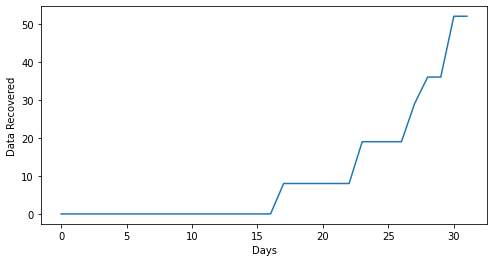
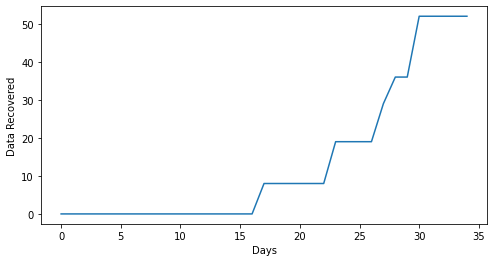
Change Time Strength

diff --git a/README.md b/README.md
@@ -1,6 +1,3 @@
-# SIR-model-Bayes-Opt
-SIR model for COVID-19 using Bayesian Optimization
-
 ```python
 !pip install bayesian-optimization
 !git clone https://github.com/CSSEGISandData/COVID-19.git
@@ -57,17 +54,26 @@ def SIR(t, sir, N, b, g):
 
 
 ```python
+D_T = True_rec.shape[0]
+d_t = np.linspace(0,D_T,D_T)
+std = np.std(True_rec)
+mn = np.mean(True_rec)
+n_data = (True_rec-mn)/std
+# 'a' could be hyperparameter, 'a'>0, if 'a' == 0 then we have equal strength for all time series
+a=1.5
+Time_strength = np.linspace(0,1,D_T)
+Time_strength = 1-np.power((1-np.power(Time_strength,a)),1/a)
+```
+
+
+```python
 %matplotlib inline
 from ipywidgets import interactive
-Pop = 3.756*10**6*0.001
-Pop = 4061
-D_T = True_rec.shape[0]
-T = D_T+20
+T = D_T+120
 t = np.linspace(0, T, T)
-d_t = np.linspace(0,D_T,D_T)
 def f(b, g,Pop):
     plt.figure(figsize=(16,8))
-    sol_ep = solve_ivp(SIR, [0, T], [0.999*Pop, 0.001*Pop, 0], args=(Pop, b, g), dense_output=True)
+    sol_ep = solve_ivp(SIR, [0, T], [0.999*Pop, 0.001*Pop, b/g], args=(Pop, b, g), dense_output=True)
     ep = sol_ep.sol(t)
 
     plt.plot(t, ep.T[:,0], label = 'Susceptible')
@@ -76,56 +82,52 @@ def f(b, g,Pop):
     plt.plot(True_rec, label='True Data')
     plt.xlabel('t')
     plt.legend(shadow=True)
-    loss = (Pop*ep.T[:D_T,2]-True_rec)*np.linspace(0.001,1,D_T)
-    loss = (loss-np.mean(loss))/np.std(loss)
+
+    loss = (ep.T[:D_T,2]-mn)/std
+    loss = (loss-n_data)*Time_strength
     loss = np.mean(np.log(np.cosh(list(loss))))
+
     plt.title('SIR Greece, {}'.format(loss))
     plt.ylabel('Population')
     plt.show()
 
-interactive_plot = interactive(f, b=(0.1,0.5,0.001), g=(0.01,0.05,0.001),Pop=(1*10**3,5*10**3))
+interactive_plot = interactive(f, b=(0.01,1,0.0001), g=(0.01,0.1,0.00001),Pop=(1*10**3,10*10**3))
 output = interactive_plot.children[-1]
 output.layout.height = '350px'
 interactive_plot
 ```
 
 
-    interactive(children=(FloatSlider(value=0.30000000000000004, description='b', max=0.5, min=0.1, step=0.001), F…
+    interactive(children=(FloatSlider(value=0.505, description='b', max=1.0, min=0.01, step=0.0001), FloatSlider(v…
 
 
 
 ```python
-D_T = True_rec.shape[0]
-d_t = np.linspace(0,D_T,D_T)
-std = np.std(True_rec)
-mn = np.mean(True_rec)
-n_data = (True_rec-mn)/std
-F = 1
 def black_box_function(Pop, b, g):
-    sol_ep = solve_ivp(SIR, [0, D_T], [0.999*Pop, 0.001*Pop, 0], args=(Pop, b, g), dense_output=True)
+    sol_ep = solve_ivp(SIR, [0, D_T], [0.999*Pop, 0.001*Pop, b/g], args=(Pop, b, g), dense_output=True)
     ep = sol_ep.sol(d_t)
-    d = (ep.T[:,2]-mn)/std
-    d = (d-n_data)*np.linspace(0.001,F,D_T)
-    loss = np.mean(np.log(np.cosh(list(d))))
+    
+    loss = (ep.T[:,2]-mn)/std
+    loss = (loss-n_data)*Time_strength
+    loss = np.mean(np.log(np.cosh(list(loss))))
+
     return -loss
 ```
 
 
 ```python
-pbounds = {'Pop': (conf[-1]*1.2, 10*10**3),'b':(0.1,0.5), 'g':(0.01,0.05)}
+pbounds = {'Pop': (conf[-1], conf[-1]*10),'b':(0.1,1), 'g':(0.01,0.05)}
 
 optimizer = BayesianOptimization(
     f=black_box_function,
     pbounds=pbounds,
-    verbose=2, # verbose = 1 prints only when a maximum is observed, verbose = 0 is silent
+    verbose=2
 )
-
-
 ```
 
 
 ```python
-optimizer.maximize(init_points=50, n_iter=50)
+optimizer.maximize(init_points=100, n_iter=100)
 ```
 
 
@@ -136,10 +138,10 @@ optimizer.max
 
 
 
-    {'params': {'Pop': 4207.066585791539,
-      'b': 0.15950142917185214,
-      'g': 0.026386258654299888},
-     'target': -0.01625127762692438}
+    {'params': {'Pop': 6220.076349971285,
+      'b': 0.12529956444297383,
+      'g': 0.046028253696086624},
+     'target': -0.010961890475561653}
 
 
 
@@ -147,28 +149,22 @@ optimizer.max
 ```python
 %matplotlib inline
 from ipywidgets import interactive
-Pop = optimizer.max['params']['Pop']
-D_T = True_rec.shape[0]
-T = D_T+150
+T = D_T+120
 t = np.linspace(0, T, T)
-d_t = np.linspace(0,D_T,D_T)
+Pop = optimizer.max['params']['Pop']
 b = optimizer.max['params']['b']
 g = optimizer.max['params']['g']
-plt.figure(figsize=(16,8))
-sol_ep = solve_ivp(SIR, [0, T], [0.999*Pop, 0.001*Pop, 0], args=(Pop, b, g), dense_output=True)
+loss = -optimizer.max['target']
+sol_ep = solve_ivp(SIR, [0, T], [0.999*Pop, 0.001*Pop, b/g], args=(Pop, b, g), dense_output=True)
 ep = sol_ep.sol(t)
 
+plt.figure(figsize=(16,8))
 plt.plot(t, ep.T[:,0], label = 'Susceptible')
 plt.plot(t, ep.T[:,1],label='Infected')
 plt.plot(t, ep.T[:,2], label='Recovered')
 plt.plot(True_rec, label='True Recoverd')
-plt.xlabel('t')
+plt.xlabel('Days')
 plt.legend(shadow=True)
-
-
-d = (ep.T[:D_T,2]-mn)/std
-d = (d-n_data)*np.linspace(0.001,F,D_T)
-loss = np.mean(np.log(np.cosh(list(d))))
 
 plt.title('SIR Loss, {}'.format(loss))
 plt.ylabel('Population')
@@ -176,7 +172,7 @@ plt.show()
 ```
 
 
-![png](output_11_0.png)
+![png](output_12_0.png)
 
 
 
@@ -187,13 +183,13 @@ print('R0', b/g)
 print('Pop', Pop)
 ```
 
-    b 0.15950142917185214
-    g 0.026386258654299888
-    R0 6.044867188697094
-    Pop 4207.066585791539
+    b 0.12529956444297383
+    g 0.046028253696086624
+    R0 2.7222315508708284
+    Pop 6220.076349971285
 
 
 # References
 * COVID-19 Data: https://github.com/CSSEGISandData/COVID-19
 * SIR model: https://en.wikipedia.org/wiki/Compartmental_models_in_epidemiology
-* Bayesian Optimization: https://github.com/fmfn/BayesianOptimization
+*Bayesian Optimization: https://github.com/fmfn/BayesianOptimization
